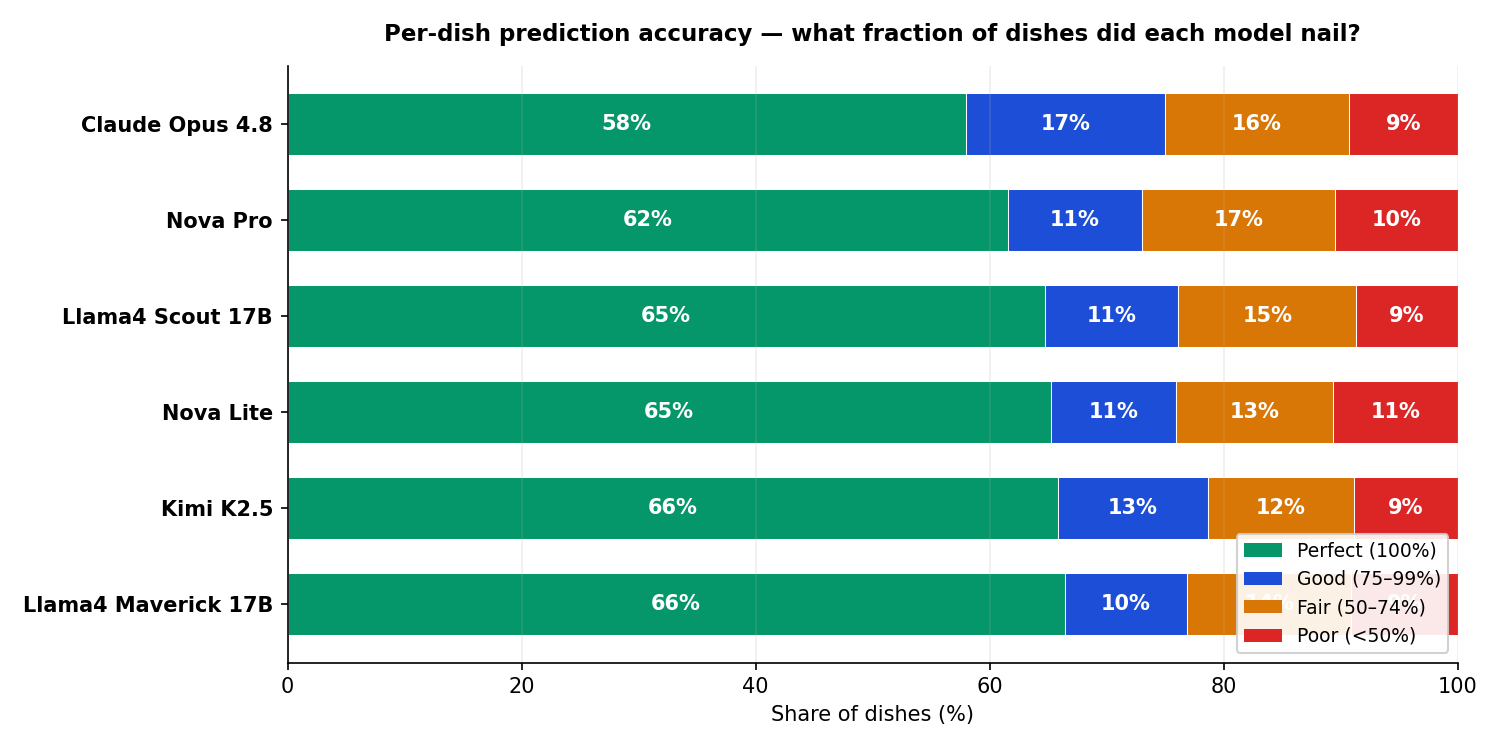
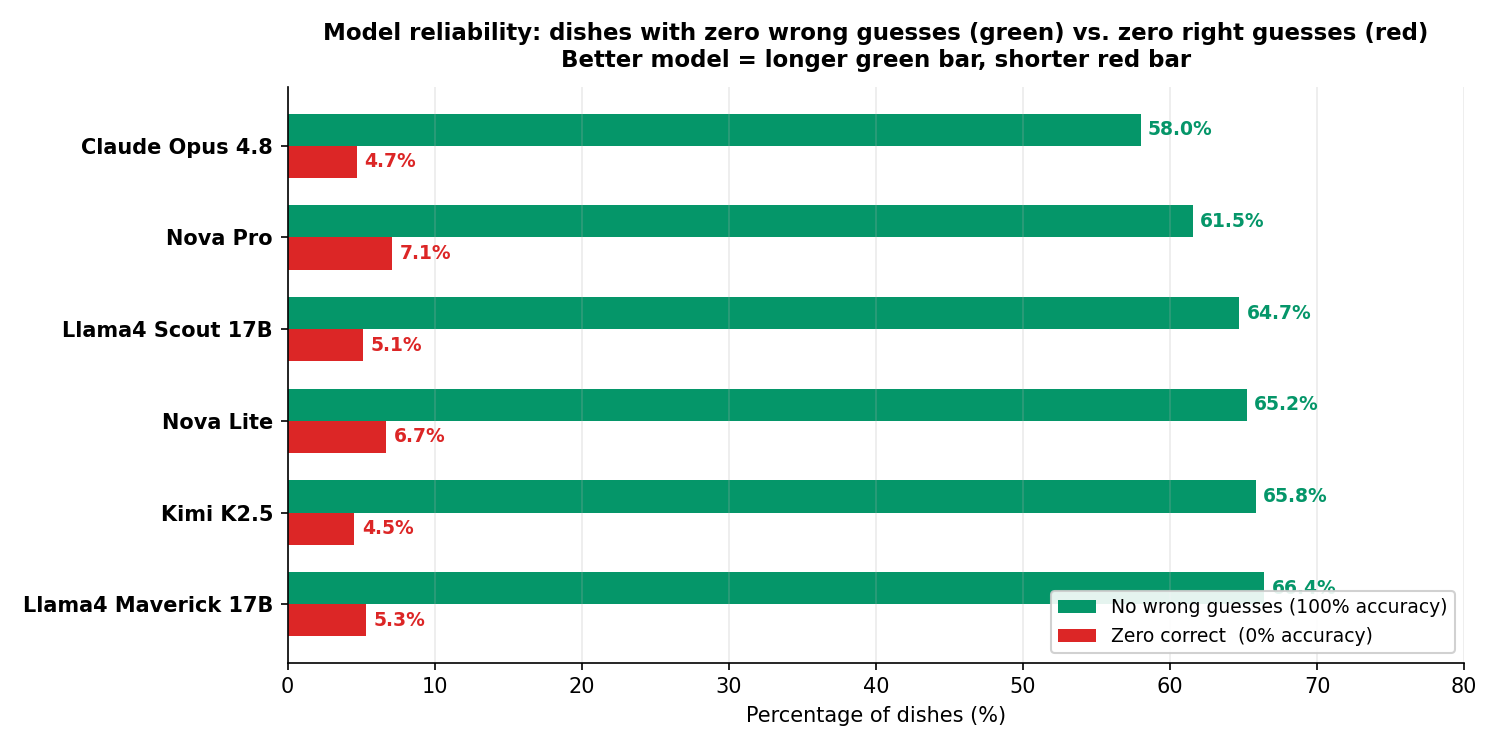
All text black; fig06 redesigned as zero-mistakes vs zero-hits chart
Text changes:
- fig01 D3: model name y-axis labels → black
- fig02 matplotlib: panel titles → black (were model color)
- fig05 D3 + matplotlib: model name labels → black
- fig05 D3: y-axis tick labels → black

fig06 completely redesigned (matplotlib + D3 updated):
- Old: confusing stacked buckets (Perfect/Good/Fair/Poor)
- New: two horizontal bars per model — green = % dishes where every
  guess was correct (no hallucinations); red = % dishes where zero
  guesses were correct (complete miss). Longer green + shorter red = better.
  Immediately readable by anyone without explanation.

diff --git a/eval/plots/fig01_accuracy.html b/eval/plots/fig01_accuracy.html
@@ -69,15 +69,10 @@ g.selectAll(".pct").data(data).join("text")
   .attr("fill",d=>d.color)
   .text(d=>d.acc.toFixed(1)+"%");
 
-// Y axis — model names, colored, no tick marks, no axis line
+// Y axis — model names, black
 const yAx = g.append("g").call(d3.axisLeft(y).tickSize(0).tickPadding(12));
 yAx.select(".domain").remove();
-yAx.selectAll("text")
-  .attr("font-size",13).attr("font-weight","700")
-  .each(function(d) {
-    const row = data.find(r => r.model === d);
-    d3.select(this).attr("fill", row ? row.color : "#374151");
-  });
+yAx.selectAll("text").attr("font-size",13).attr("font-weight","700").attr("fill","#111827");
 
 // X axis — clean, 0 to 90%
 const xAx = g.append("g").attr("transform",`translate(0,${H})`).call(

diff --git a/eval/plots/fig05_complexity.html b/eval/plots/fig05_complexity.html
@@ -76,14 +76,10 @@ panels.forEach((panel,pi)=>{
    .attr("dy","0.35em").attr("font-size",13).attr("font-weight","800")
    .attr("fill",m=>m.color).text(m=>m.f1.toFixed(3));
 
-  // Y axis: model names in model color
+  // Y axis: model names in black
   const yAx=g.append("g").call(d3.axisLeft(y).tickSize(0).tickPadding(10));
   yAx.select(".domain").remove();
-  yAx.selectAll("text").attr("font-size",13).attr("font-weight","700")
-    .each(function(d){
-      const row=panel.models.find(m=>m.model===d);
-      d3.select(this).attr("fill",row?row.color:"#111827");
-    });
+  yAx.selectAll("text").attr("font-size",13).attr("font-weight","700").attr("fill","#111827");
 
   // X axis
   const xAx=g.append("g").attr("transform",`translate(0,${CH})`)

diff --git a/eval/plots/fig03_missed.html b/eval/plots/fig03_missed.html
@@ -28,7 +28,7 @@ text{font-family:'Inter',system-ui,sans-serif}
 <body><script>
 
 const data  = [{"ing": "olive oil", "count": 1044}, {"ing": "salt", "count": 737}, {"ing": "pepper", "count": 428}, {"ing": "garlic", "count": 406}, {"ing": "mustard", "count": 375}, {"ing": "vinegar", "count": 334}, {"ing": "arugula", "count": 245}, {"ing": "onions", "count": 234}, {"ing": "lemon juice", "count": 232}, {"ing": "shallots", "count": 217}, {"ing": "wheat berry", "count": 215}, {"ing": "parsley", "count": 201}, {"ing": "thyme", "count": 201}, {"ing": "mixed greens", "count": 197}, {"ing": "cucumbers", "count": 165}, {"ing": "basil", "count": 160}, {"ing": "chard", "count": 159}, {"ing": "rosemary", "count": 153}, {"ing": "jalapenos", "count": 127}, {"ing": "spinach (raw)", "count": 120}, {"ing": "mushroom", "count": 118}, {"ing": "bok choy", "count": 116}, {"ing": "pork", "count": 110}, {"ing": "carrot", "count": 106}, {"ing": "fish", "count": 101}];
-const INVIS = new Set(["basil", "white wine", "thyme", "paprika", "vinegar", "onions", "flour", "oregano", "garlic", "lemon juice", "mustard", "cinnamon", "salt", "shallots", "rosemary", "ginger", "olive oil", "cumin", "pepper"]);
+const INVIS = new Set(["ginger", "garlic", "pepper", "mustard", "flour", "shallots", "thyme", "basil", "onions", "oregano", "salt", "rosemary", "lemon juice", "paprika", "vinegar", "white wine", "cinnamon", "olive oil", "cumin"]);
 const W=520, rowH=28, H=data.length*rowH;
 const m={t:110,r:72,b:52,l:148};
 

diff --git a/eval/plot_analysis.py b/eval/plot_analysis.py
@@ -118,7 +118,7 @@ for idx, (name, color) in enumerate(zip(names, colors)):
     ax.axvline(med,  color="#111827", linestyle="--", linewidth=1.8, label=f"median {med:.0f}")
     ax.axvline(mean, color="#D97706", linestyle=":",  linewidth=1.5, label=f"mean {mean:.1f}")
     title = name + (f"  [{clipped} outlier>cap]" if clipped else "")
-    ax.set_title(title, fontsize=10, fontweight="bold", color=color, pad=6)
+    ax.set_title(title, fontsize=10, fontweight="bold", color="black", pad=6)
     ax.set_xlabel("Correct ingredients per dish", fontsize=9)
     ax.set_ylabel("Number of dishes", fontsize=9)
     ax.set_xlim(0, X_CAP + 1)
@@ -245,9 +245,7 @@ for bi, (ax, (lo, hi, label)) in enumerate(zip(axes, BUCK5)):
 
     ax.set_yticks(y_pos)
     if bi == 0:
-        ax.set_yticklabels(snames, fontsize=10, fontweight="bold")
-        for tick, col in zip(ax.get_yticklabels(), scolors):
-            tick.set_color(col)
+        ax.set_yticklabels(snames, fontsize=10, fontweight="bold", color="black")
     else:
         ax.set_yticklabels([])
     ax.set_xlim(x_lo, x_hi)
@@ -265,54 +263,53 @@ plt.close()
 print("Saved 05_f1_by_complexity.png")
 
 
-# ── Plot 6: Prediction accuracy buckets — stacked horizontal bars ─────────────
-#  Matches D3 fig06: Perfect / Good / Fair / Poor per model
-from matplotlib.patches import Patch
+# ── Plot 6: No-hallucination rate vs. complete-miss rate ──────────────────────
+#  Two bars per model:
+#    Green  — % of dishes where EVERY ingredient the model named was correct
+#             (prediction accuracy = 100% — model made zero wrong guesses)
+#    Red    — % of dishes where NONE of the model's guesses were correct
+#             (prediction accuracy = 0% — complete miss)
+#  Reading: longer green + shorter red = more reliable model.
 
-BUCK6 = [
-    ("Perfect (100%)",  100, 100, "#059669"),
-    ("Good (75–99%)",    75,  99, "#1D4ED8"),
-    ("Fair (50–74%)",    50,  74, "#D97706"),
-    ("Poor (<50%)",       0,  49, "#DC2626"),
-]
-
-model_rows = []
+model_rows6 = []
 for name in names:
     vals = [round(d["pred_acc"] * 100) for d in data[name]]
     total = len(vals)
-    segs = []
-    for label, lo, hi, col in BUCK6:
-        count = sum(1 for v in vals if lo <= v <= hi)
-        segs.append({"label": label, "pct": 100 * count / total, "color": col})
-    model_rows.append({"name": name, "segs": segs, "perfect": segs[0]["pct"]})
+    all_correct  = 100 * sum(1 for v in vals if v == 100) / total
+    zero_correct = 100 * sum(1 for v in vals if v == 0)   / total
+    model_rows6.append({"name": name, "all_correct": all_correct, "zero_correct": zero_correct})
 
-# Sort by Perfect descending
-model_rows.sort(key=lambda r: r["perfect"], reverse=True)
+model_rows6.sort(key=lambda r: r["all_correct"], reverse=True)
+y_pos = np.arange(len(model_rows6))
 
 fig, ax = plt.subplots(figsize=(10, 5))
-y_pos = np.arange(len(model_rows))
 
-for i, row in enumerate(model_rows):
-    left = 0.0
-    for seg in row["segs"]:
-        ax.barh(i, seg["pct"], left=left, color=seg["color"], height=0.65,
-                edgecolor="white", linewidth=0.5)
-        if seg["pct"] >= 5:
-            ax.text(left + seg["pct"] / 2, i, f"{seg['pct']:.0f}%",
-                    ha="center", va="center", fontsize=10, fontweight="bold", color="white")
-        left += seg["pct"]
+bar_h = 0.35
+# Green bars — all guesses correct
+ax.barh(y_pos + bar_h / 2, [r["all_correct"]  for r in model_rows6],
+        height=bar_h, color="#059669", label="No wrong guesses (100% accuracy)")
+# Red bars — zero guesses correct
+ax.barh(y_pos - bar_h / 2, [r["zero_correct"] for r in model_rows6],
+        height=bar_h, color="#DC2626", label="Zero correct  (0% accuracy)")
+
+# Value labels
+for i, r in enumerate(model_rows6):
+    ax.text(r["all_correct"]  + 0.5, i + bar_h / 2, f"{r['all_correct']:.1f}%",
+            va="center", fontsize=9, fontweight="bold", color="#059669")
+    ax.text(r["zero_correct"] + 0.5, i - bar_h / 2, f"{r['zero_correct']:.1f}%",
+            va="center", fontsize=9, fontweight="bold", color="#DC2626")
 
 ax.set_yticks(y_pos)
-ax.set_yticklabels([r["name"] for r in model_rows], fontsize=10, fontweight="bold")
-ax.set_xlabel("Share of dishes (%)", fontsize=10)
-ax.set_xlim(0, 100)
-ax.set_title("Per-dish prediction accuracy — what fraction of dishes did each model nail?",
-             fontsize=11, fontweight="bold", pad=12)
+ax.set_yticklabels([r["name"] for r in model_rows6], fontsize=10, fontweight="bold")
+ax.set_xlabel("Percentage of dishes (%)", fontsize=10)
+ax.set_xlim(0, 80)
+ax.set_title(
+    "Model reliability: dishes with zero wrong guesses (green) vs. zero right guesses (red)\n"
+    "Better model = longer green bar, shorter red bar",
+    fontsize=11, fontweight="bold", pad=10)
 ax.spines[["top", "right"]].set_visible(False)
-ax.grid(axis="x", alpha=0.2)
-
-legend_els = [Patch(facecolor=col, label=lbl) for lbl, _, _, col in BUCK6]
-ax.legend(handles=legend_els, loc="lower right", fontsize=9, framealpha=0.9)
+ax.grid(axis="x", alpha=0.25)
+ax.legend(fontsize=9, loc="lower right", framealpha=0.9)
 
 fig.tight_layout()
 fig.savefig(PLOT_DIR / "06_pred_accuracy_dist.png", dpi=150)

diff --git a/eval/gen_d3_plots.py b/eval/gen_d3_plots.py
@@ -147,15 +147,10 @@ g.selectAll(".pct").data(data).join("text")
   .attr("fill",d=>d.color)
   .text(d=>d.acc.toFixed(1)+"%");
 
-// Y axis — model names, colored, no tick marks, no axis line
+// Y axis — model names, black
 const yAx = g.append("g").call(d3.axisLeft(y).tickSize(0).tickPadding(12));
 yAx.select(".domain").remove();
-yAx.selectAll("text")
-  .attr("font-size",13).attr("font-weight","700")
-  .each(function(d) {{
-    const row = data.find(r => r.model === d);
-    d3.select(this).attr("fill", row ? row.color : "#374151");
-  }});
+yAx.selectAll("text").attr("font-size",13).attr("font-weight","700").attr("fill","#111827");
 
 // X axis — clean, 0 to 90%
 const xAx = g.append("g").attr("transform",`translate(0,${{H}})`).call(
@@ -516,14 +511,10 @@ panels.forEach((panel,pi)=>{{
    .attr("dy","0.35em").attr("font-size",13).attr("font-weight","800")
    .attr("fill",m=>m.color).text(m=>m.f1.toFixed(3));
 
-  // Y axis: model names in model color
+  // Y axis: model names in black
   const yAx=g.append("g").call(d3.axisLeft(y).tickSize(0).tickPadding(10));
   yAx.select(".domain").remove();
-  yAx.selectAll("text").attr("font-size",13).attr("font-weight","700")
-    .each(function(d){{
-      const row=panel.models.find(m=>m.model===d);
-      d3.select(this).attr("fill",row?row.color:"#111827");
-    }});
+  yAx.selectAll("text").attr("font-size",13).attr("font-weight","700").attr("fill","#111827");
 
   // X axis
   const xAx=g.append("g").attr("transform",`translate(0,${{CH}})`)